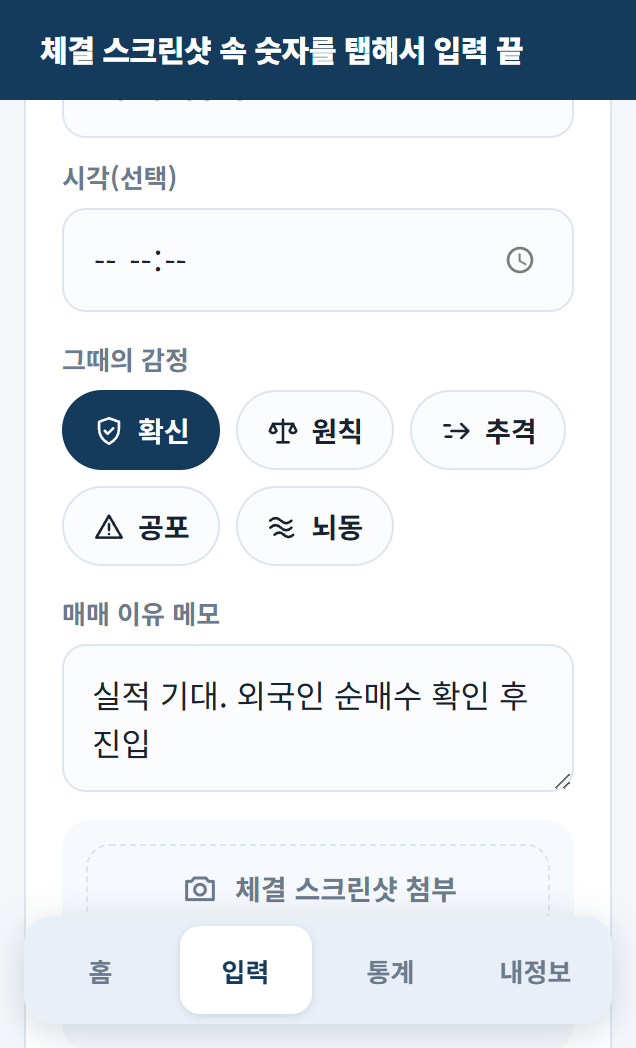
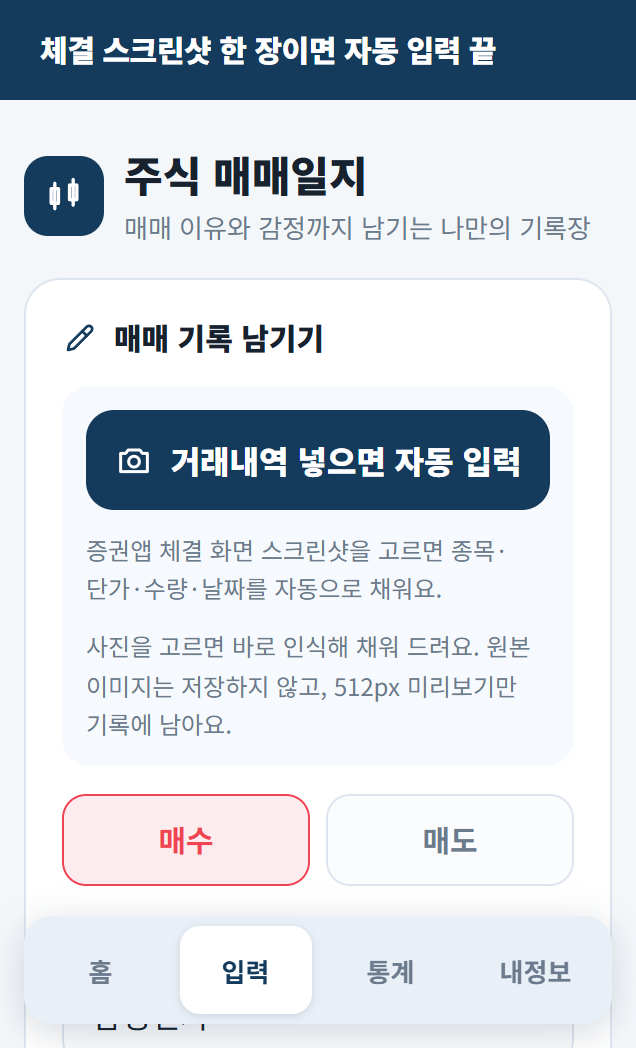
바로 입력하기 단가 보강 + 자동 입력 CTA를 폼 최상단으로
- 저장 경로 리팩터링: saveTrade(eff) 단일 경로 + quickAdd는 폼 상태가 비어도
  OCR 프리뷰 값(금액÷수량 계산 단가 포함)으로 보강해 저장 — 단가 누락 원천 차단
- e2e 고정: 오프라인 OCR 후 폼 5필드(종목·구분·단가·수량·날짜) 전부 채움 +
  "바로 입력하기" 1탭 저장 기록에 단가 72,400 포함 전 필드 반영 검증 (63 assertions)
- 입력 탭 레이아웃: "거래내역 넣으면 자동 입력" 네이비 프라이머리 CTA + 캡션을
  종목명 위(폼 최상단)로 이동, 스토어 shot2 재생성
- e2e 픽스처에 날짜 줄 추가(2026.7.23 23:18 → 날짜 자동 채움 검증)

diff --git a/src/App.tsx b/src/App.tsx
@@ -143,17 +143,38 @@ export function App() {
     if (fileRef.current) fileRef.current.value = '';
   };
 
-  const addTrade = () => {
-    if (!canSave) return;
+  interface EffTrade { symbol: string; side: Side; price: number; qty: number; date: string; time: string }
+
+  const effFromState = (): EffTrade => ({ symbol: symbol.trim(), side, price: priceNum, qty: qtyNum, date, time });
+
+  /** 바로 입력하기 방어: 폼 상태가 비어 있으면 OCR 프리뷰 값으로 보강(계산 단가 포함) */
+  const effFromPreview = (m: ParsedTrade | null): EffTrade => ({
+    symbol: symbol.trim() !== '' ? symbol.trim() : (m?.symbol ?? ''),
+    side: m?.side ?? side,
+    price: price !== '' ? priceNum : (m?.price ?? NaN),
+    qty: qty !== '' ? qtyNum : (m?.qty ?? NaN),
+    date: /^\d{4}-\d{2}-\d{2}$/.test(date) ? date : (m?.date ?? date),
+    time: time !== '' ? time : (m?.time ?? ''),
+  });
+
+  const isEffValid = (e: EffTrade): boolean =>
+    recordOk &&
+    e.symbol !== '' &&
+    Number.isFinite(e.price) && e.price > 0 &&
+    Number.isFinite(e.qty) && e.qty > 0 &&
+    /^\d{4}-\d{2}-\d{2}$/.test(e.date);
+
+  const saveTrade = (e: EffTrade) => {
+    if (!isEffValid(e)) return;
     setNotice('');
     const t: Trade = {
       id: `${Date.now()}-${Math.random().toString(36).slice(2, 8)}`,
-      symbol: symbol.trim(),
-      side,
-      price: Math.round(priceNum),
-      qty: Math.round(qtyNum * 1e6) / 1e6, // 소수점 주식 허용(소수 6자리)
-      date,
-      ...(time !== '' ? { time } : {}),
+      symbol: e.symbol,
+      side: e.side,
+      price: Math.round(e.price),
+      qty: Math.round(e.qty * 1e6) / 1e6, // 소수점 주식 허용(소수 6자리)
+      date: e.date,
+      ...(e.time !== '' ? { time: e.time } : {}),
       memo: memo.trim(),
       emotion,
       ...(thumb ? { thumb } : {}),
@@ -164,6 +185,9 @@ export function App() {
     setAiReport(null);
     setTab('home');
   };
+
+  const addTrade = () => saveTrade(effFromState());
+  const quickAdd = () => saveTrade(effFromPreview(parsedPreview));
 
   const removeTrade = (id: string) => {
     persist(trades.filter((t) => t.id !== id));
@@ -452,6 +476,60 @@ export function App() {
             </p>
           )}
 
+          <div className="ocr-box">
+            <input
+              ref={fileRef}
+              id="f-image"
+              type="file"
+              accept="image/*"
+              onChange={onFileChange}
+              style={{ display: 'none' }}
+            />
+            <button className="btn-primary ocr-cta" onClick={() => fileRef.current?.click()}>
+              <IconCamera size={20} />거래내역 넣으면 자동 입력
+            </button>
+            <p className="ocr-note">증권앱 체결 화면 스크린샷을 고르면 종목·단가·수량·날짜를 자동으로 채워요.</p>
+            {thumb && <img className="ocr-thumb" src={thumb} alt="첨부한 체결 스크린샷 미리보기" />}
+            {ocrState === 'gate' && (
+              <div className="gate-sheet">
+                <p className="ocr-note">영상 광고를 한 번 보면 오늘 하루 종일 스크린샷 인식을 무료로 쓸 수 있어요.</p>
+                <button className="btn-primary" onClick={() => void watchAdThenOcr()}>영상 광고 보고 오늘 하루 무료로 쓰기</button>
+                <button className="btn-ghost" onClick={() => setOcrState('idle')}>다음에 할게요(직접 입력)</button>
+              </div>
+            )}
+            {ocrState === 'ad' && <p className="ocr-status">광고 재생 중…</p>}
+            {ocrState === 'running' && (
+              <p className="ocr-status">
+                {ocrProgress > 0 ? `인식 중… ${Math.round(ocrProgress * 100)}%` : '문자 인식기를 준비하고 있어요(최초 1회는 조금 걸려요)…'}
+              </p>
+            )}
+            {ocrState === 'failed' && (
+              <p className="ocr-status ocr-fail">
+                {ocrError === 'unsupported'
+                  ? '이 환경에서는 문자 인식이 지원되지 않아요. 직접 입력해 주세요.'
+                  : ocrError === 'image'
+                    ? '이미지를 읽지 못했어요. JPG·PNG 스크린샷으로 다시 시도하거나 직접 입력해 주세요.'
+                    : ocrError === 'timeout'
+                      ? '인식이 너무 오래 걸려 중단했어요. 다시 시도하거나 직접 입력해 주세요.'
+                      : '인식 엔진을 불러오지 못했어요. 잠시 후 다시 시도하거나 직접 입력해 주세요.'}
+              </p>
+            )}
+            {ocrState === 'done' && parsedPreview !== null && (
+              <div className="gate-sheet ocr-confirm">
+                <p className="ocr-status">자동으로 채웠어요</p>
+                <div className="ocr-preview">
+                  <span>종목 <strong>{parsedPreview.symbol ?? '—'}</strong></span>
+                  <span>구분 <strong>{parsedPreview.side === 'buy' ? '매수' : parsedPreview.side === 'sell' ? '매도' : '—'}</strong></span>
+                  <span>단가 <strong>{parsedPreview.price !== undefined ? formatWon(parsedPreview.price) : '—'}</strong></span>
+                  <span>수량 <strong>{parsedPreview.qty !== undefined ? `${formatQty(parsedPreview.qty)}주` : '—'}</strong></span>
+                  <span>날짜 <strong>{parsedPreview.date ?? date}</strong></span>
+                </div>
+                <button className="btn-primary" disabled={!isEffValid(effFromPreview(parsedPreview))} onClick={quickAdd}>바로 입력하기</button>
+              </div>
+            )}
+            <p className="ocr-note">사진을 고르면 바로 인식해 채워 드려요. 원본 이미지는 저장하지 않고, 512px 미리보기만 기록에 남아요.</p>
+          </div>
+
           <div className="seg" role="group" aria-label="매수 매도 구분">
             <button className={`seg-btn buy ${side === 'buy' ? 'on' : ''}`} onClick={() => setSide('buy')}>매수</button>
             <button className={`seg-btn sell ${side === 'sell' ? 'on' : ''}`} onClick={() => setSide('sell')}>매도</button>
@@ -528,59 +606,6 @@ export function App() {
               onChange={(e) => setMemo(e.target.value)}
               placeholder="왜 샀는지, 왜 팔았는지 한 줄이라도 남겨두면 다음 매매가 달라져요"
             />
-          </div>
-
-          <div className="ocr-box">
-            <input
-              ref={fileRef}
-              id="f-image"
-              type="file"
-              accept="image/*"
-              onChange={onFileChange}
-              style={{ display: 'none' }}
-            />
-            <button className="btn-ghost" onClick={() => fileRef.current?.click()}>
-              <IconCamera size={20} />체결 스크린샷 첨부
-            </button>
-            {thumb && <img className="ocr-thumb" src={thumb} alt="첨부한 체결 스크린샷 미리보기" />}
-            {ocrState === 'gate' && (
-              <div className="gate-sheet">
-                <p className="ocr-note">영상 광고를 한 번 보면 오늘 하루 종일 스크린샷 인식을 무료로 쓸 수 있어요.</p>
-                <button className="btn-primary" onClick={() => void watchAdThenOcr()}>영상 광고 보고 오늘 하루 무료로 쓰기</button>
-                <button className="btn-ghost" onClick={() => setOcrState('idle')}>다음에 할게요(직접 입력)</button>
-              </div>
-            )}
-            {ocrState === 'ad' && <p className="ocr-status">광고 재생 중…</p>}
-            {ocrState === 'running' && (
-              <p className="ocr-status">
-                {ocrProgress > 0 ? `인식 중… ${Math.round(ocrProgress * 100)}%` : '문자 인식기를 준비하고 있어요(최초 1회는 조금 걸려요)…'}
-              </p>
-            )}
-            {ocrState === 'failed' && (
-              <p className="ocr-status ocr-fail">
-                {ocrError === 'unsupported'
-                  ? '이 환경에서는 문자 인식이 지원되지 않아요. 직접 입력해 주세요.'
-                  : ocrError === 'image'
-                    ? '이미지를 읽지 못했어요. JPG·PNG 스크린샷으로 다시 시도하거나 직접 입력해 주세요.'
-                    : ocrError === 'timeout'
-                      ? '인식이 너무 오래 걸려 중단했어요. 다시 시도하거나 직접 입력해 주세요.'
-                      : '인식 엔진을 불러오지 못했어요. 잠시 후 다시 시도하거나 직접 입력해 주세요.'}
-              </p>
-            )}
-            {ocrState === 'done' && parsedPreview !== null && (
-              <div className="gate-sheet ocr-confirm">
-                <p className="ocr-status">자동으로 채웠어요</p>
-                <div className="ocr-preview">
-                  <span>종목 <strong>{parsedPreview.symbol ?? '—'}</strong></span>
-                  <span>구분 <strong>{parsedPreview.side === 'buy' ? '매수' : parsedPreview.side === 'sell' ? '매도' : '—'}</strong></span>
-                  <span>단가 <strong>{parsedPreview.price !== undefined ? formatWon(parsedPreview.price) : '—'}</strong></span>
-                  <span>수량 <strong>{parsedPreview.qty !== undefined ? `${formatQty(parsedPreview.qty)}주` : '—'}</strong></span>
-                  <span>날짜 <strong>{parsedPreview.date ?? date}</strong></span>
-                </div>
-                <button className="btn-primary" disabled={!canSave} onClick={addTrade}>바로 입력하기</button>
-              </div>
-            )}
-            <p className="ocr-note">사진을 고르면 바로 인식해 채워 드려요. 원본 이미지는 저장하지 않고, 512px 미리보기만 기록에 남아요.</p>
           </div>
 
           {notice !== '' && <p className="notice">{notice}</p>}

diff --git a/src/styles.css b/src/styles.css
@@ -98,6 +98,7 @@ textarea.field-input { resize: vertical; min-height: 64px; }
   font-size: 16px; font-weight: 800;
 }
 .btn-primary:disabled { opacity: 0.4; cursor: default; }
+.btn-primary.ocr-cta { display: flex; align-items: center; justify-content: center; gap: 8px; width: 100%; }
 .btn-ghost {
   min-height: 44px; border-radius: 12px; border: 1.5px dashed var(--line);
   font-size: 14px; font-weight: 700; color: var(--sub);
